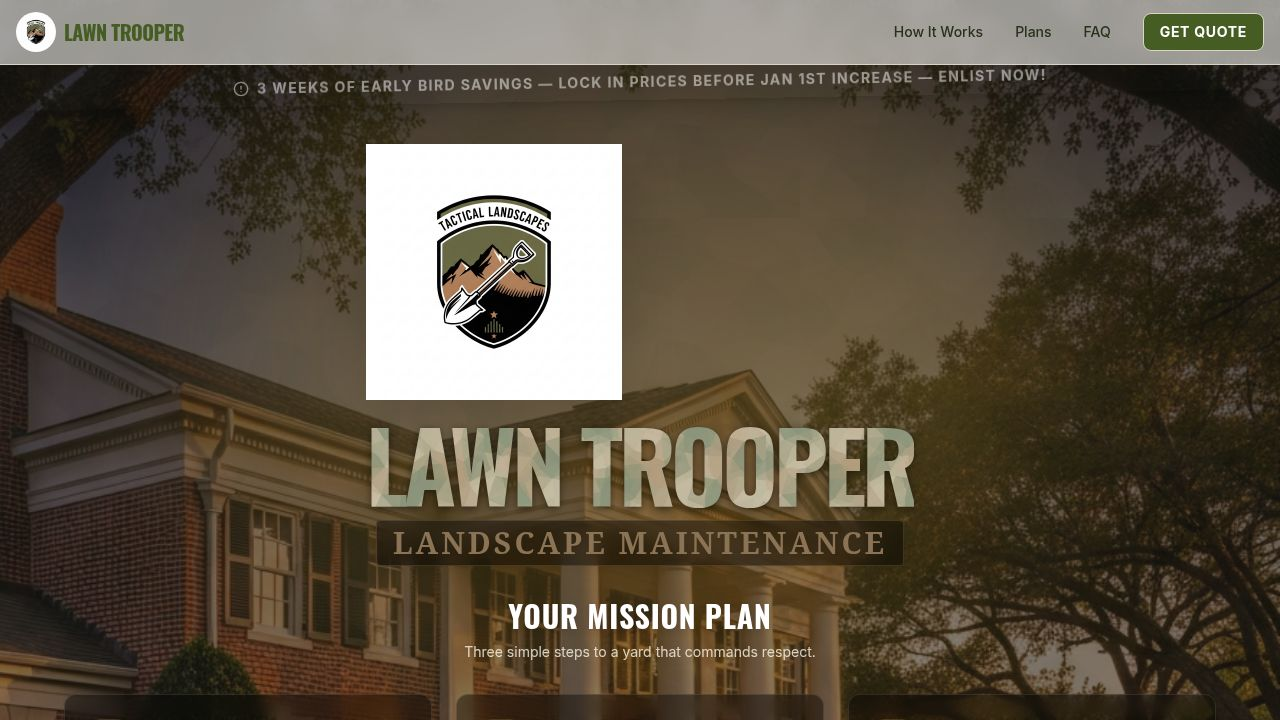
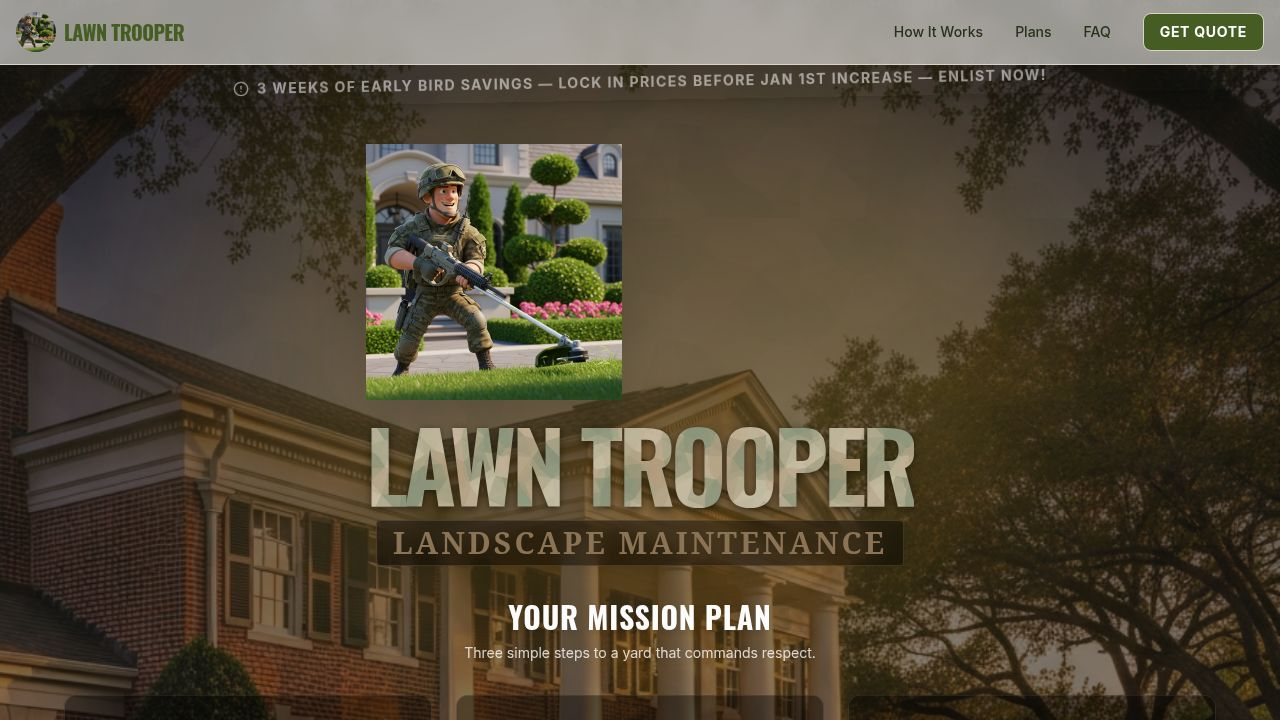
Update hero image to new animated mascot and adjust layout
Replace the tactical badge logo with the new animated "Camo Trooper" mascot in the hero section and ensure correct image import.

Replit-Commit-Author: Agent
Replit-Commit-Session-Id: ef1a610a-a644-4159-90d2-10a9e9503470
Replit-Commit-Checkpoint-Type: full_checkpoint
Replit-Commit-Event-Id: b94435f0-cc68-4c76-8a4a-4f44f8af20b5
Replit-Commit-Screenshot-Url: https://storage.googleapis.com/screenshot-production-us-central1/272d6f3a-6d6e-4d82-9048-783487746b88/ef1a610a-a644-4159-90d2-10a9e9503470/i0gIwl9
Replit-Helium-Checkpoint-Created: true

Changed region(s): [[0.2812, 0.1833, 0.5, 0.5806], [0.375, 0.825, 0.625, 0.9167], [0.0, 0.0, 0.0625, 0.0917]]

diff --git a/client/src/pages/home.tsx b/client/src/pages/home.tsx
@@ -52,7 +52,7 @@ import { Label } from "@/components/ui/label";
 
 // Assets
 import heroBg from "@assets/generated_images/manicured_lawn_with_mower_stripes.png";
-import heroMascot from "@assets/generated_images/tactical_landscape_logo_badge.png";
+import heroMascot from "@assets/generated_images/camo_soldier_mascot_weedeating.png";
 import camoPattern from "@assets/generated_images/subtle_camo_texture_background.png";
 
 // Stock Assets
